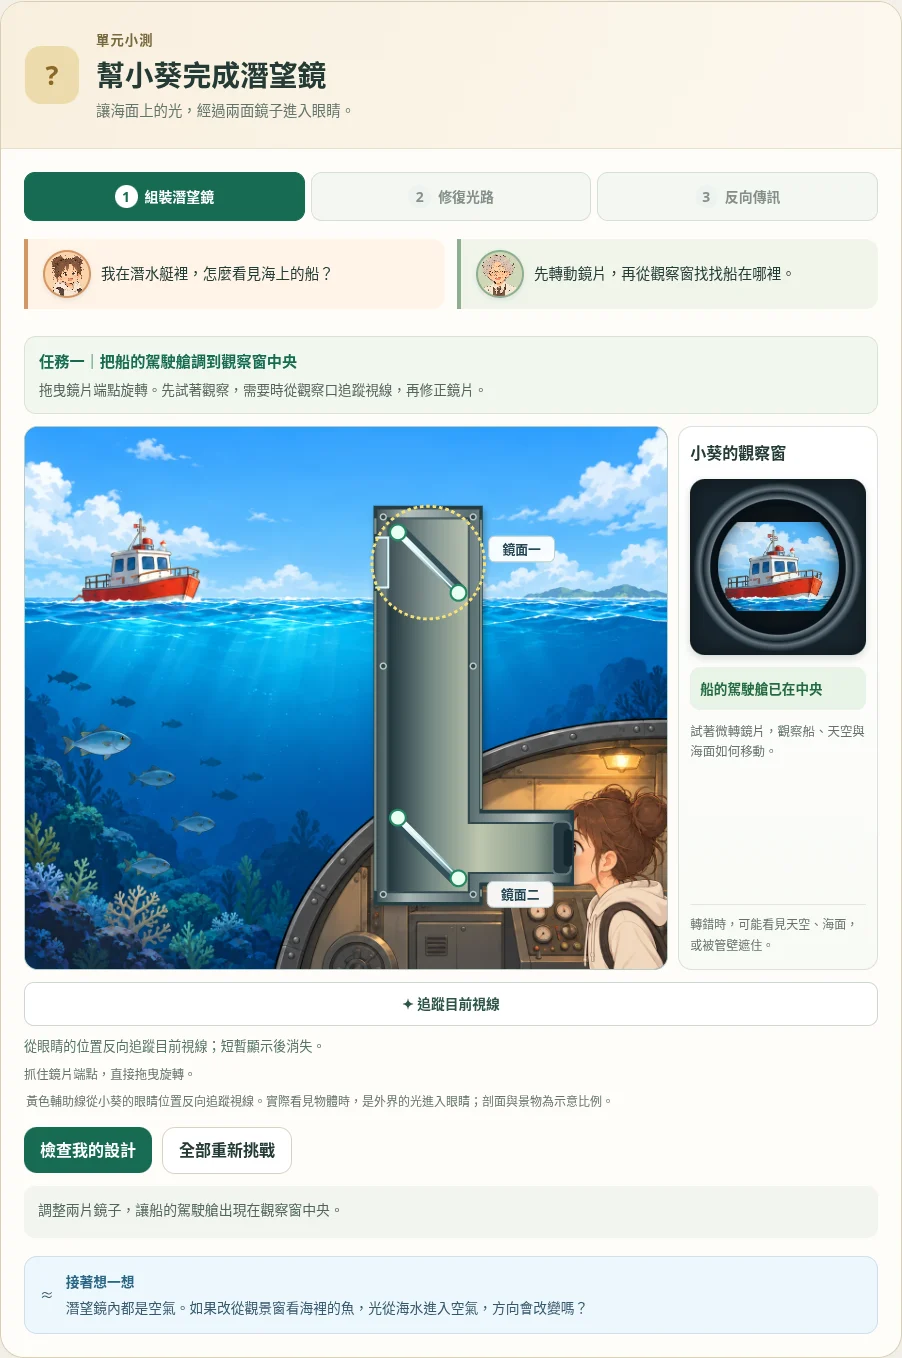
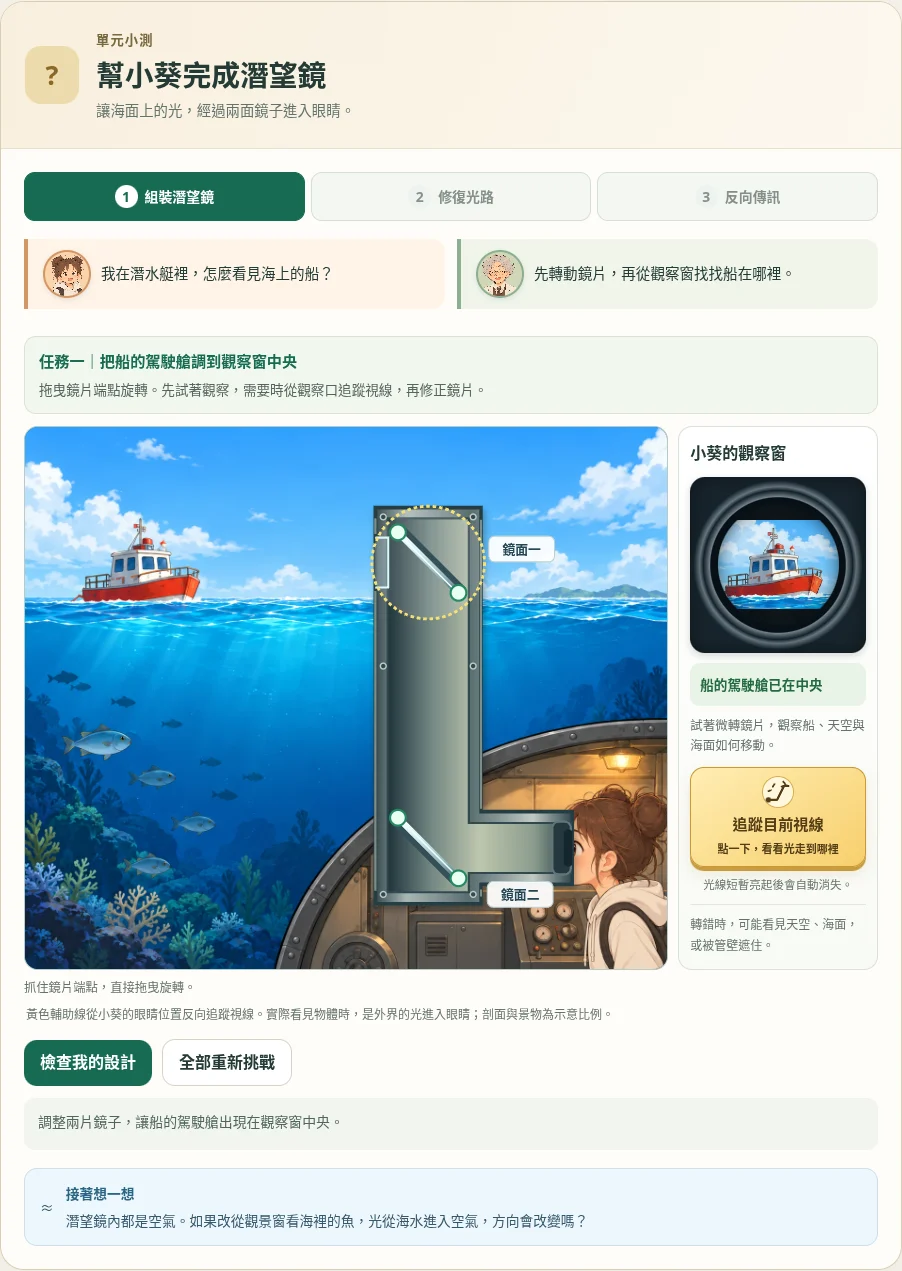
Move sightline tracing into the periscope observation panel

diff --git a/units/1/parts/1.2/assets/periscope.css b/units/1/parts/1.2/assets/periscope.css
@@ -12,10 +12,25 @@
 .periscope-question{margin-top:19px;padding:16px;border:1px solid #d9e1db;border-radius:14px;background:#fff}.periscope-question h3{font-size:1rem;margin:0 0 5px}.periscope-question>p{font-size:.83rem;color:var(--muted);margin:0 0 13px}.periscope-answer-list{display:grid;gap:8px;margin-top:12px}.periscope-answer{min-height:45px;padding:10px 13px;border:1px solid #d3ded8;border-radius:10px;background:#fff;color:var(--ink);text-align:left;font-size:.9rem}.periscope-answer::before{content:'○';margin-right:9px;color:#87998e}.periscope-answer[aria-pressed=true]{border-color:var(--green);background:#edf6ed}.periscope-answer[aria-pressed=true]::before{content:'●';color:var(--green)}.periscope-choice-row{display:flex;gap:9px}.periscope-choice-row button{flex:1}
 .periscope-footer{display:flex;align-items:center;gap:10px;flex-wrap:wrap;margin-top:15px}.periscope-footer button{min-height:46px}.periscope-feedback{margin-top:12px;padding:12px 14px;min-height:52px;border-radius:11px;background:#f2f5ef;color:#51665a;font-size:.87rem}.periscope-feedback[data-state=good]{background:#e9f4e8;color:#24633e}.periscope-feedback[data-state=try]{background:#fff2e2;color:#7a512c}.periscope-next-lesson{display:flex;gap:12px;align-items:center;margin-top:18px;padding:13px 15px;border:1px solid #cfdfeb;border-radius:13px;background:#edf7fd;font-size:.86rem;color:#36586c}.periscope-next-lesson strong{display:block;color:#2a6584}.periscope-next-lesson p{margin:3px 0 0}.periscope-signal{border-color:#5485af!important;color:#275f8d!important;background:#eef6ff!important}.periscope-signal[aria-pressed=true]{background:#236fa9!important;color:#fff!important}.periscope-complete{margin-top:14px;padding:16px;border:1px solid #b6d0b7;border-radius:13px;background:#edf7e9}.periscope-complete h3{color:var(--green);margin:0 0 5px;font-size:1.05rem}.periscope-complete p{margin:0;color:#48624e;font-size:.88rem}
 @media(min-width:1000px){.periscope-talks{display:grid;grid-template-columns:1fr 1fr;gap:12px}.periscope-talks .dialogue{margin-top:0}.periscope-body{padding:23px}}
-@media(max-width:1050px) and (min-width:781px){.periscope-workspace{grid-template-columns:1fr}.periscope-view{display:grid;grid-template-columns:130px 1fr;align-items:center}.periscope-view h3{grid-column:1/-1}.periscope-lens-frame{grid-row:2/5}.periscope-view-meter{display:none}}
+@media(max-width:1050px) and (min-width:601px){.periscope-workspace{grid-template-columns:1fr}.periscope-view{display:grid;grid-template-columns:130px 1fr;align-items:center}.periscope-view h3{grid-column:1/-1}.periscope-lens-frame{grid-row:2/5}.periscope-view-meter{display:none}}
 @media(max-width:600px){.periscope-heading{padding:18px 15px;gap:12px}.periscope-heading .quiz-icon{flex-basis:42px;height:48px;border-radius:12px}.periscope-body{padding:14px}.periscope-steps{gap:4px}.periscope-steps button{font-size:.76rem;flex-direction:column;gap:4px;padding:8px 3px}.periscope-workspace{grid-template-columns:1fr}.periscope-view{display:grid;grid-template-columns:120px 1fr;gap:8px 12px;align-items:center;padding:11px}.periscope-view h3{grid-column:1/-1}.periscope-lens-frame{grid-row:2/5}.periscope-view-meter{display:none}.periscope-view-state{font-size:.82rem}.periscope-view p{font-size:.76rem}.periscope-question{padding:12px}.periscope-controls{gap:6px}.periscope-controls button{font-size:.78rem;padding:7px}.periscope-task{padding:10px 12px}.periscope-task p{font-size:.8rem}.periscope-heading h2{font-size:1.28rem}}
 #periscope-recorded .light-line{stroke-width:10}
 .periscope-steps button span{width:23px}
 
 
 .periscope-controls button:disabled{cursor:default;background:#f1f4ef;color:#7b8d83;border-color:#d9e1d9}.periscope-pulse-note{margin:9px 0 0;color:#557465;font-size:.82rem}.periscope-path circle{pointer-events:none}
+
+/* 讓視線追蹤直接出現在觀察窗的操作情境內。 */
+.periscope-view{gap:10px}
+.periscope-trace-action{display:grid;gap:8px;margin-block:auto;padding-block:0}
+.periscope-pulse-button{display:grid;justify-items:center;gap:4px;width:100%;min-height:100px;padding:8px 7px;border:1px solid #c9972e;border-radius:14px;background:linear-gradient(145deg,#ffedb3,#f7cf6c);color:#523d16;box-shadow:0 4px 0 #c89c40,0 7px 14px #a7792026;cursor:pointer;transition:background .15s,box-shadow .15s,transform .15s;line-height:1.5}
+.periscope-pulse-icon{display:grid;place-items:center;width:32px;height:32px;border:1px solid #d8ad51;border-radius:50%;background:#fff8dd}
+.periscope-pulse-label{font-size:.95rem;font-weight:850}.periscope-pulse-invite{font-size:.69rem;font-weight:650}
+.periscope-pulse-button:not(:disabled):hover{background:linear-gradient(145deg,#fff2c8,#ffda79);transform:translateY(-2px);box-shadow:0 6px 0 #c89c40,0 10px 18px #a7792033}
+.periscope-pulse-button:not(:disabled):active{transform:translateY(3px);box-shadow:0 1px 0 #c89c40}
+.periscope-pulse-button:disabled{cursor:default;background:#f4e8c8;color:#715c2f;box-shadow:0 2px 0 #d5bd82}
+.periscope-trace-action .periscope-pulse-note{margin:0;text-align:center;font-size:.72rem;line-height:1.65}
+.periscope-view-meter{margin-top:0}
+#unit-quiz[data-phase="2"] .periscope-view-meter{margin-top:auto}
+@media(max-width:1050px) and (min-width:601px),(max-width:600px){.periscope-lens-frame{grid-row:2/4}.periscope-trace-action{grid-column:1/-1;margin:4px 0 0;padding:0}.periscope-pulse-button{grid-template-columns:40px auto;justify-content:center;column-gap:12px;row-gap:0;min-height:76px;padding:10px 14px}.periscope-pulse-icon{grid-row:1/3;align-self:center}.periscope-pulse-label,.periscope-pulse-invite{justify-self:start}.periscope-pulse-label{align-self:end}.periscope-pulse-invite{align-self:start}}
+@media(prefers-reduced-motion:reduce){.periscope-pulse-button{transition:none}.periscope-pulse-button:not(:disabled):hover,.periscope-pulse-button:not(:disabled):active{transform:none}}

diff --git a/units/1/parts/1.2/index.html b/units/1/parts/1.2/index.html
@@ -103,7 +103,7 @@
   </style>
   <link rel="stylesheet" href="assets/curved-mirrors.css?v=1">
   <link rel="stylesheet" href="assets/reversible-light.css?v=3">
-  <link rel="stylesheet" href="assets/periscope.css?v=5">
+  <link rel="stylesheet" href="assets/periscope.css?v=6">
 </head>
 <body>
   <header class="shell masthead">
@@ -430,10 +430,12 @@
                     <g id="periscope-signal-source" hidden pointer-events="none" role="img" aria-label="訊號光源位於原眼睛位置"><rect x="755" y="578" width="38" height="24" rx="6" fill="#254b69" stroke="#b3d8f2" stroke-width="2"/><path d="M780 581V599M786 581V599" stroke="#739dbb" stroke-width="2"/><circle cx="755" cy="590" r="6" fill="#89cfff" stroke="#e6f7ff" stroke-width="2"/></g>
                   </svg>
                 </div>
-                <aside class="periscope-view" aria-label="從潛望鏡看到的景象"><h3>小葵的觀察窗</h3><div class="periscope-lens-frame"><canvas id="periscope-view" width="240" height="240" role="img" aria-label="觀察窗載入中"></canvas></div><div id="periscope-view-state" class="periscope-view-state" role="status">正在準備觀察窗…</div><p id="periscope-view-copy">景象隨鏡片轉動；管壁擋住的區域會變暗。</p><div class="periscope-view-meter">轉錯時，可能看見天空、海面，或被管壁遮住。</div></aside>
+                <aside class="periscope-view" aria-label="從潛望鏡看到的景象"><h3>小葵的觀察窗</h3><div class="periscope-lens-frame"><canvas id="periscope-view" width="240" height="240" role="img" aria-label="觀察窗載入中"></canvas></div><div id="periscope-view-state" class="periscope-view-state" role="status">正在準備觀察窗…</div><p id="periscope-view-copy">景象隨鏡片轉動；管壁擋住的區域會變暗。</p><div class="periscope-trace-action" id="periscope-trace-action">
+                    <button type="button" id="periscope-pulse" class="periscope-pulse-button" aria-describedby="periscope-pulse-note"><span class="periscope-pulse-icon" aria-hidden="true"><svg viewBox="0 0 32 32" width="28" height="28" fill="none"><path d="M5 25H15L23 9H28" stroke="currentColor" stroke-width="2.5" stroke-linecap="round" stroke-linejoin="round"/><circle cx="5" cy="25" r="3" fill="currentColor"/><path d="M22 4L25 8L20 10M10 10L12 7M5 15L8 14" stroke="currentColor" stroke-width="2" stroke-linecap="round" stroke-linejoin="round"/></svg></span><span class="periscope-pulse-label">追蹤目前視線</span><span class="periscope-pulse-invite" aria-hidden="true">點一下，看看光走到哪裡</span></button>
+                    <p class="periscope-pulse-note" id="periscope-pulse-note" role="status">光線短暫亮起後會自動消失。</p>
+                  </div><div class="periscope-view-meter">轉錯時，可能看見天空、海面，或被管壁遮住。</div></aside>
               </div>
-              <div class="periscope-controls"><button type="button" id="periscope-pulse" aria-describedby="periscope-pulse-note">✦ 追蹤目前視線</button><button type="button" id="periscope-signal" class="periscope-signal" aria-pressed="false" hidden disabled>發送訊號光</button></div>
-              <p class="periscope-pulse-note" id="periscope-pulse-note" role="status">從眼睛的位置反向追蹤目前視線；短暫顯示後消失。</p>
+              <div class="periscope-controls" id="periscope-signal-controls" hidden><button type="button" id="periscope-signal" class="periscope-signal" aria-pressed="false" hidden disabled>發送訊號光</button></div>
               <p class="periscope-keyboard" id="periscope-drag-help">抓住鏡片端點，直接拖曳旋轉。</p>
               <p class="periscope-model-note">黃色輔助線從小葵的眼睛位置反向追蹤視線。實際看見物體時，是外界的光進入眼睛；剖面與景物為示意比例。</p>
               <div class="periscope-question" id="periscope-question-1" hidden><h3>哪一片鏡子被轉動了？</h3><p>比較原本的路線，先作判斷，再試著修復。</p><div class="periscope-choice-row"><button class="periscope-answer" type="button" data-diagnosis="0" aria-pressed="false">鏡面一</button><button class="periscope-answer" type="button" data-diagnosis="1" aria-pressed="false">鏡面二</button></div></div>
@@ -471,6 +473,6 @@
   <script type="module" src="assets/reflection-3d.js?v=46"></script>
   <script type="module" src="assets/laser-reflection.js?v=36"></script>
   <script type="module" src="assets/reversible-light.js?v=3"></script>
-  <script type="module" src="assets/periscope.js?v=9"></script>
+  <script type="module" src="assets/periscope.js?v=10"></script>
 </body>
 </html>

diff --git a/units/1/parts/1.2/assets/periscope.js b/units/1/parts/1.2/assets/periscope.js
@@ -69,9 +69,12 @@ if(root) {
     root.dataset.pulseStatus=busy?'running':waiting?'cooldown':'idle';
     const button=$('#periscope-pulse');
     button.hidden=state.stage===2;button.disabled=busy||waiting;
-    button.textContent=busy?'✦ 視線追蹤中':waiting?'✦ 稍後可再試':'✦ 追蹤目前視線';
+    $('.periscope-pulse-label').textContent=busy?'視線追蹤中':waiting?'稍後可再試':'追蹤目前視線';
+    $('.periscope-pulse-invite').textContent=busy?'看看光在哪裡轉彎或停下':waiting?'調整鏡片，再試一次':'點一下，看看光走到哪裡';
+    $('#periscope-trace-action').hidden=state.stage===2;
+    $('#periscope-signal-controls').hidden=state.stage!==2;
     $('#periscope-pulse-note').hidden=state.stage===2;
-    $('#periscope-pulse-note').textContent=busy?'從小葵的觀察口出發，看看這次視線通往哪裡。':waiting?'追蹤已結束。先調整鏡片，再追蹤一次。':'從眼睛的位置反向追蹤目前視線；短暫顯示後消失。';
+    $('#periscope-pulse-note').textContent=busy?'從小葵的觀察口出發，看看這次視線通往哪裡。':waiting?'追蹤已結束。先調整鏡片，再追蹤一次。':'光線短暫亮起後會自動消失。';
   }
   function cancelPulse(reset=false) {
     cancelAnimationFrame(pulseFrame);clearTimeout(pulseEndTimer);pulse=null;

diff --git a/tests/README.md b/tests/README.md
@@ -143,7 +143,7 @@ CHROMIUM_PATH=/usr/bin/chromium node --test --test-concurrency=1 tests/unit-1.2-
 
 與第三至六區循序執行回歸，避免多個軟體 WebGL 瀏覽器競用。實體點擊前取消平滑捲動並確認座標穩定，不以強制點擊略過命中問題。觀察窗取樣核對使用相同 Canvas CPU 色彩取樣方式，以免 GPU／CPU 縮圖插值差異被誤判為光路偏差。整卡截圖暫隱藏外側 sticky 導覽，避免離開視窗的部分在長截圖中混入懸浮導覽；正式頁面不隱藏導覽。截圖與人工對照保留在 `docs/reviews/unit-1.2-periscope/`。
 
-潛望鏡提示光已改為整束實際光路短暫亮起後熄滅。另檢查顯示路徑與獨立追跡完全一致、沒有箭頭／移動光點／圈叉、撞壁光斑位於真實交點、快速連點不疊加或延長、自動消失及空檔、拖曳／微調立即取消、沒有額外文字提示或分關重設控制、撞壁光斑隨追蹤熄滅、重設／換關取消舊計時器、第三關比較線不被過期動畫清除，以及減少動態與手機觸控。淡出曲線純函式與實際 SVG 路徑、時間及畫面分別核對。 提示已改為從小葵眼位反向追蹤，另以 1296 組角度比對中央視線，並實際檢查五組船／天空／海面／遮擋設定的 SVG 起點一律為眼位，管外直線延伸不自動接船。
+潛望鏡提示光已改為整束實際光路短暫亮起後熄滅。另檢查顯示路徑與獨立追跡完全一致、沒有箭頭／移動光點／圈叉、撞壁光斑位於真實交點、快速連點不疊加或延長、自動消失及空檔、拖曳／微調立即取消、沒有額外文字提示或分關重設控制、五種寬度的追蹤按鈕位於觀察窗說明下方且可點擊、撞壁光斑隨追蹤熄滅、重設／換關取消舊計時器、第三關比較線不被過期動畫清除，以及減少動態與手機觸控。淡出曲線純函式與實際 SVG 路徑、時間及畫面分別核對。 提示已改為從小葵眼位反向追蹤，另以 1296 組角度比對中央視線，並實際檢查五組船／天空／海面／遮擋設定的 SVG 起點一律為眼位，管外直線延伸不自動接船。
 
 ## 5.1 統一為 3.2 頁面版型
 

diff --git a/docs/reviews/unit-1.2-periscope/review.md b/docs/reviews/unit-1.2-periscope/review.md
@@ -131,3 +131,11 @@
 測試改為檢查上述節點不存在、視線追蹤仍會在實際管壁交點產生短暫光斑，並驗證追蹤自動熄滅、拖動取消、全程重來及三關操作。紀錄見 `no-extra-controls-tests.log`。
 
 本輪 **23 項檢查通過、0 失敗**（含外層項目），已人工檢視桌面與手機畫面，確認兩個指定按鈕與提示框完整移除，控制列沒有殘留空位；鏡片拖曳、短暫視線追蹤與三關流程正常。
+
+## 觀察窗內的視線追蹤入口（2026-10-28）
+
+依使用者要求，將「追蹤目前視線」從剖面圖下方移到右側觀察窗說明下方的空白區。改用金黃色按鈕、光線圖示及「點一下，看看光走到哪裡」的邀請；按下後明確顯示追蹤中／等待再試狀態，仍只短暫顯示實際光路。第三關隱藏這個入口，訊號光保留原操作位置。
+
+手機與中型單欄版面將按鈕放在觀察窗卡片內的下一列；五種寬度檢查按鈕在觀察窗內、位於景象說明下方、觸控尺寸及無溢位。將 601–780 px 也納入單欄版面，避免新增入口將剖面圖容器撐高、露出底色。結果見 `trace-placement-tests.log`。
+
+本輪 **23 項檢查通過、0 失敗**（含外層項目）。已人工檢視桌面與手機截圖，確認按鈕在觀察窗內且醒目，剖面圖沒有新增底色空白；短暫光線、真實滑鼠／觸控拖曳與完整三關流程正常。

diff --git a/units/1/parts/1.2/assets/README.md b/units/1/parts/1.2/assets/README.md
@@ -56,3 +56,5 @@
 2026-10-28 評量精簡：移除第一關光路順序題的 HTML、順序／標籤狀態、拖放與點選處理及專用 CSS。第一關以實際對準船的駕駛艙判定，沒有隱藏填答門檻。
 
 2026-10-28 控制精簡：刪除額外文字提示、輔助法線與分關重設控制，前兩關操作列只顯示視線追蹤，第三關只顯示訊號光。
+
+2026-10-28 入口位置：將短暫視線追蹤移入觀察窗卡片，使用金黃色按鈕、光線圖示與點擊邀請。標籤以獨立文字節點更新，追蹤中與冷卻時保留按鈕外觀結構；第三關隱藏整個追蹤入口。

diff --git a/units/1/parts/1.2/storyline.md b/units/1/parts/1.2/storyline.md
@@ -145,3 +145,7 @@
 ### 移除額外提示與重新組裝（2026-10-28）
 
 依使用者要求移除「給我提示」與各階段的「重新組裝／重現故障／重做預測」按鈕及相關功能。畫面以直接旋轉鏡片、短暫追蹤視線及檢查設計為主；第三關維持訊號光驗證。
+
+### 觀察窗內的視線追蹤（2026-10-28）
+
+將追蹤目前視線按鈕移到觀察窗說明下方，以金黃色按鈕、光線圖示及邀請文字強調可點擊嘗試；手機版同樣置於觀察窗卡片內。追蹤中與冷卻狀態仍明示，光線不常駐。
